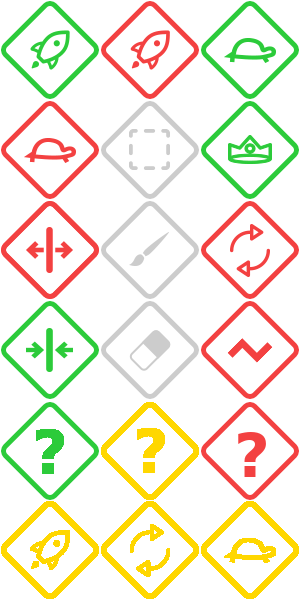
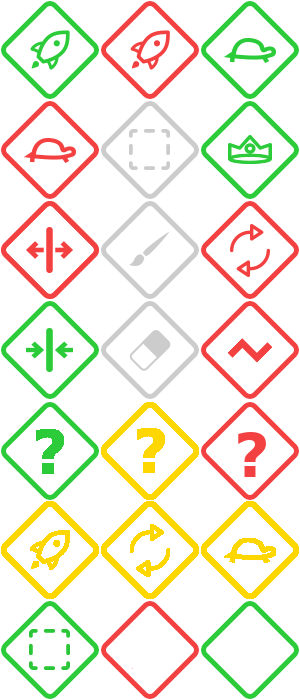
add bonus self borderless

diff --git a/src/shared/model/BaseAvatar.js b/src/shared/model/BaseAvatar.js
@@ -10,6 +10,7 @@ function BaseAvatar(player)
     this.id              = player.id;
     this.name            = player.name;
     this.color           = player.color;
+    this.borderColor           = player.color;
     this.player          = player;
     this.x               = 0;
     this.y               = 0;
@@ -73,6 +74,13 @@ BaseAvatar.prototype.inverse = false;
  * @type {Boolean}
  */
 BaseAvatar.prototype.invincible = false;
+
+/**
+ * Invincible
+ *
+ * @type {Boolean}
+ */
+BaseAvatar.prototype.ghost = false;
 
 /**
  * Type of tunrn: round or straight
@@ -265,6 +273,16 @@ BaseAvatar.prototype.setInvincible = function(invincible)
 };
 
 /**
+ * Set ghost
+ *
+ * @param {Number} ghost
+ */
+BaseAvatar.prototype.setGhost = function(ghost)
+{
+    this.ghost = ghost ? true : false;
+};
+
+/**
  * Get distance
  *
  * @param {Number} fromX
@@ -361,6 +379,16 @@ BaseAvatar.prototype.setColor = function(color)
 };
 
 /**
+ * Set borderColor
+ *
+ * @param {Number} color
+ */
+BaseAvatar.prototype.setBorderColor = function(borderColor)
+{
+    this.borderColor = borderColor;
+};
+
+/**
  * Clear
  */
 BaseAvatar.prototype.clear = function()
@@ -378,6 +406,7 @@ BaseAvatar.prototype.clear = function()
     this.alive               = true;
     this.printing            = false;
     this.color               = this.player.color;
+    this.borderColor         = this.player.color;
     this.radius              = BaseAvatar.prototype.radius;
     this.inverse             = BaseAvatar.prototype.inverse;
     this.invincible          = BaseAvatar.prototype.invincible;
@@ -412,6 +441,7 @@ BaseAvatar.prototype.serialize = function()
         id: this.id,
         name: this.name,
         color: this.color,
+        borderColor: this.borderColor,
         score: this.score
     };
 };

diff --git a/src/sass/pages/_room.scss b/src/sass/pages/_room.scss
@@ -589,7 +589,7 @@
                 height: $bonus-size;
                 display: inline-block;
                 background: url(../images/bonus.png) no-repeat transparent;
-                background-size: $bonus-size*3 $bonus-size*6;
+                background-size: $bonus-size*3 $bonus-size*7;
                 position: relative;
                 text-align: center;
                 color: #FFF;
@@ -653,6 +653,9 @@
                 }
                 &.bonus-leader-slow {
                     @include bonus-sprite(2, 5);
+                }
+                &.bonus-self-borderless {
+                    @include bonus-sprite(0, 6);
                 }
 
                 i {

diff --git a/src/server/model/Game.js b/src/server/model/Game.js
@@ -48,10 +48,10 @@ Game.prototype.update = function(step)
         if (avatar.alive) {
             avatar.update(step);
 
-            border = this.world.getBoundIntersect(avatar.body, this.borderless ? 0 : avatar.radius);
+            border = this.world.getBoundIntersect(avatar.body, this.borderless || avatar.ghost ? 0 : avatar.radius);
 
             if (border) {
-                if (this.borderless) {
+                if (this.borderless || avatar.ghost) {
                     position = this.world.getOposite(border[0], border[1]);
                     avatar.setPosition(position[0], position[1]);
                 } else {

diff --git a/src/server/model/Bonus/BonusSelfBorderless.js b/src/server/model/Bonus/BonusSelfBorderless.js
@@ -1,0 +1,34 @@
+/**
+ * Ghost Bonus
+ *
+ * @param {Number} x
+ * @param {Number} y
+ */
+function BonusSelfBorderless(x, y)
+{
+    BonusSelf.call(this, x, y);
+}
+
+BonusSelfBorderless.prototype = Object.create(BonusSelf.prototype);
+BonusSelfBorderless.prototype.constructor = BonusSelfBorderless;
+
+/**
+ * Duration
+ *
+ * @type {Number}
+ */
+BonusSelfBorderless.prototype.duration = 7500;
+
+/**
+ * Get effects
+ *
+ * @param {Avatar} avatar
+ *
+ * @return {Array}
+ */
+BonusSelfBorderless.prototype.getEffects = function(avatar)
+{
+    return [
+        ['ghost', true]
+    ];
+};

diff --git a/src/client/manager/BonusManager.js b/src/client/manager/BonusManager.js
@@ -12,7 +12,7 @@ function BonusManager(game)
     this.onLoad = this.onLoad.bind(this);
 
     this.loaded = false;
-    this.sprite = new SpriteAsset('images/bonus.png', 3, 6, this.onLoad, true);
+    this.sprite = new SpriteAsset('images/bonus.png', 3, 7, this.onLoad, true);
 }
 
 BonusManager.prototype = Object.create(BaseBonusManager.prototype);
@@ -48,7 +48,8 @@ BonusManager.prototype.spritePosition = [
     'BonusEnemyRandom',
     'BonusLeaderFast',
     'BonusLeaderInverse',
-    'BonusLeaderSlow'
+    'BonusLeaderSlow',
+    'BonusSelfBorderless'
 ];
 
 /**

diff --git a/src/server/model/BonusStack.js b/src/server/model/BonusStack.js
@@ -54,6 +54,9 @@ BonusStack.prototype.apply = function(property, value)
         case 'invincible':
             this.target.setInvincible(value ? true : false);
             break;
+        case 'ghost':
+            this.target.setGhost(value ? true : false);
+            break;
         case 'printing':
             this.target.printManager[value > 0 ? 'start' : 'stop']();
             break;

diff --git a/src/server/model/Avatar.js b/src/server/model/Avatar.js
@@ -127,6 +127,17 @@ Avatar.prototype.setInvincible = function(invincible)
 };
 
 /**
+ * Set ghost
+ *
+ * @param {Number} ghost
+ */
+Avatar.prototype.setGhost = function(ghost)
+{
+    BaseAvatar.prototype.setGhost.call(this, ghost);
+    this.emit('property', {avatar: this, property: 'ghost', value: this.ghost});
+};
+
+/**
  * Set inverse
  *
  * @param {Number} inverse

diff --git a/src/client/model/RoomConfig.js b/src/client/model/RoomConfig.js
@@ -37,7 +37,8 @@ RoomConfig.prototype.bonusClasses = {
     BonusEnemyRandom: 'bonus-enemy-random',
     BonusLeaderFast: 'bonus-leader-fast',
     BonusLeaderInverse: 'bonus-leader-inverse',
-    BonusLeaderSlow: 'bonus-leader-slow'
+    BonusLeaderSlow: 'bonus-leader-slow',
+    BonusSelfBorderless: 'bonus-self-borderless'
 };
 
 /**

diff --git a/src/server/model/RoomConfig.js b/src/server/model/RoomConfig.js
@@ -34,7 +34,8 @@ RoomConfig.prototype.bonusTypes = {
     BonusEnemyRandom: BonusEnemyRandom,
     BonusLeaderFast: BonusLeaderFast,
     BonusLeaderInverse: BonusLeaderInverse,
-    BonusLeaderSlow: BonusLeaderSlow
+    BonusLeaderSlow: BonusLeaderSlow,
+    BonusSelfBorderless: BonusSelfBorderless
 
 };
 

diff --git a/src/client/model/preset/RandomPreset.js b/src/client/model/preset/RandomPreset.js
@@ -39,5 +39,6 @@ RandomPreset.prototype.bonuses = [
     'BonusEnemyRandom',
     'BonusLeaderFast',
     'BonusLeaderInverse',
-    'BonusLeaderSlow'
+    'BonusLeaderSlow',
+    'BonusSelfBorderless'
 ].sort(function() {return 0.5 - Math.random();}).slice(0, Math.floor(Math.random() * 17));

diff --git a/src/shared/model/BaseRoomConfig.js b/src/shared/model/BaseRoomConfig.js
@@ -32,7 +32,8 @@ function BaseRoomConfig(room)
         BonusEnemyRandom: false,
         BonusLeaderFast: true,
         BonusLeaderInverse: true,
-        BonusLeaderSlow: true
+        BonusLeaderSlow: true,
+        BonusSelfBorderless: true
     };
 }
 
